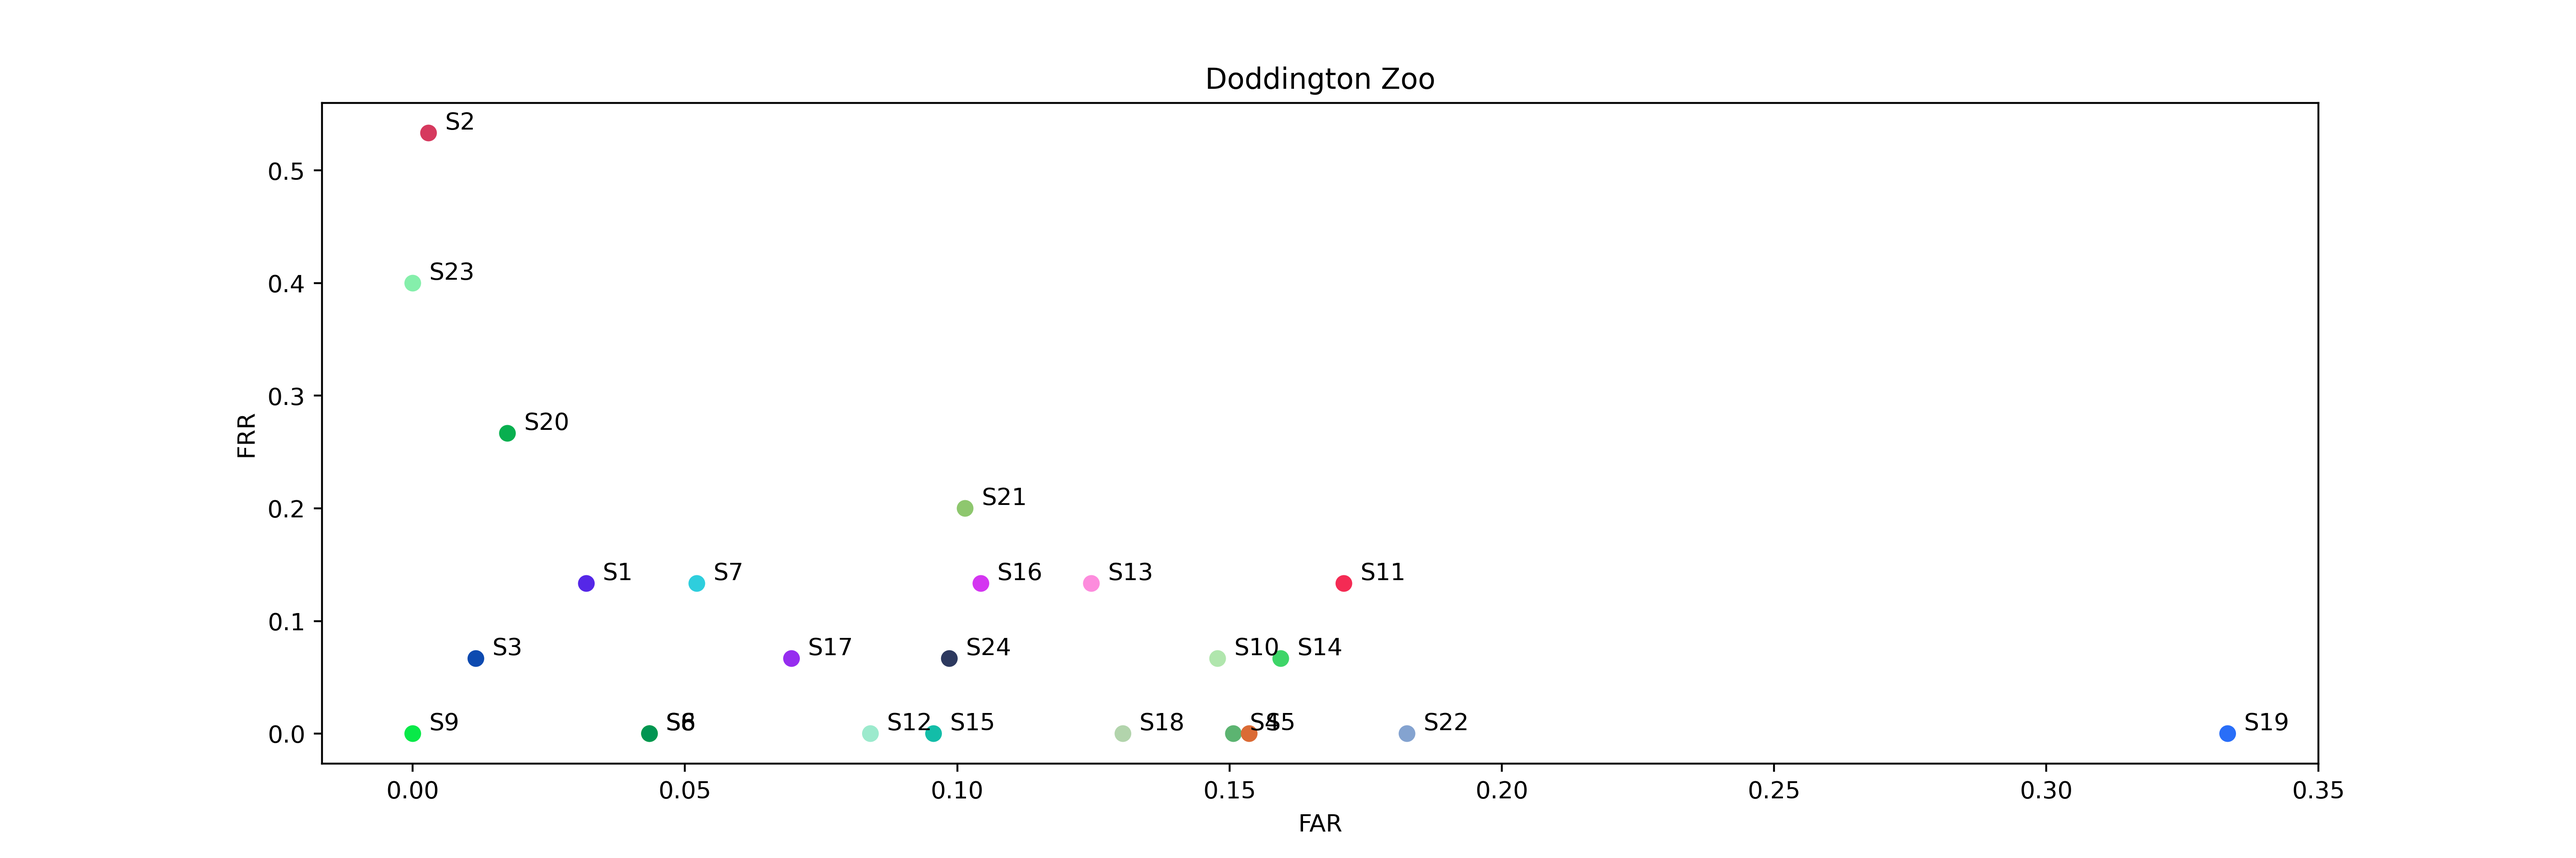
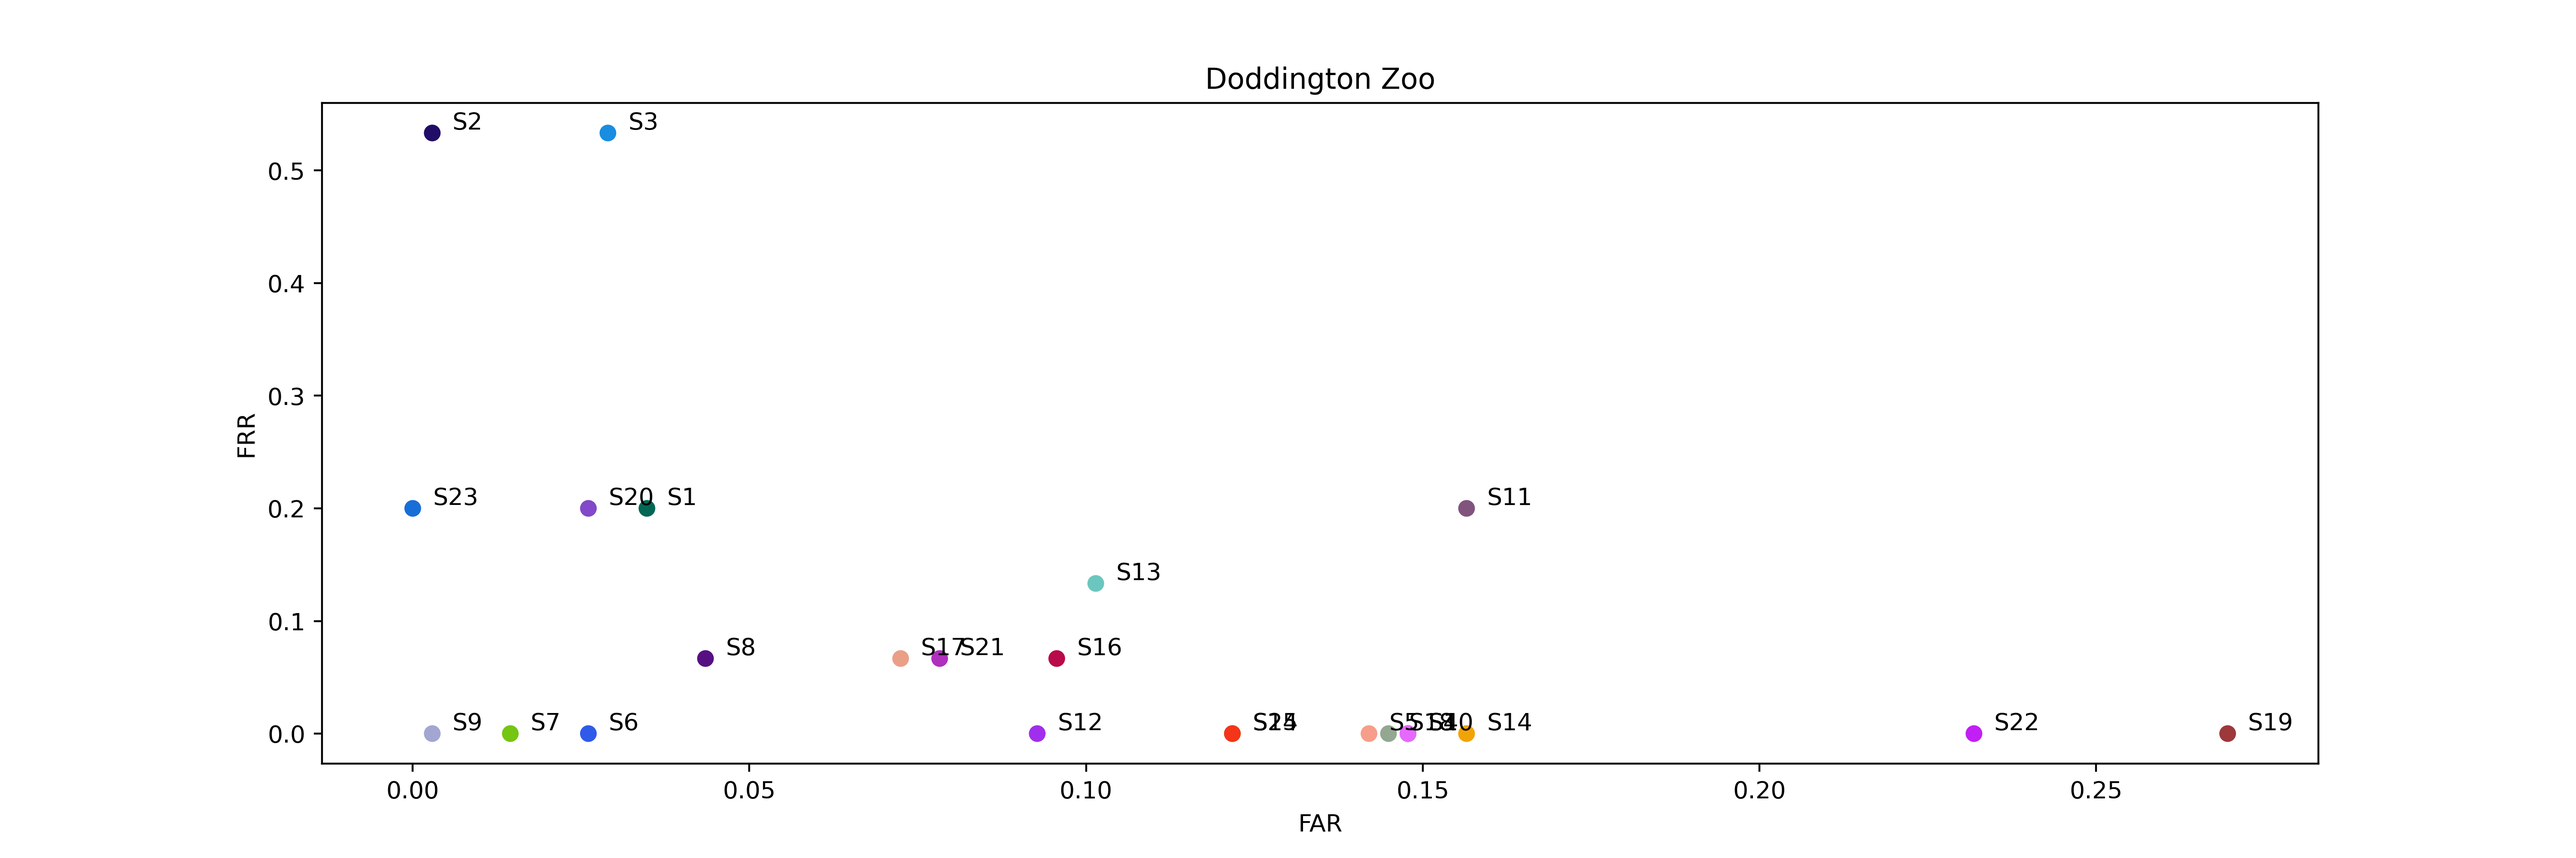
Modiche doddington e feature ridotte a 200

diff --git a/src/recogniser/doddington_zoo.py b/src/recogniser/doddington_zoo.py
@@ -37,11 +37,10 @@ class Doddigton:
             
 
         # dictionary that will contain all the results
-        results = {user: dict({'fa': 0, 'fr': 0, 'ga': 0, 'gr': 0, 'ctr': 0}) for user in set(self.y_label)}
+        results = {user: dict({'fa': 0, 'fr': 0, 'ga': 0, 'gr': 0, 'ctr': 0, 'ctrImpostor': 0}) for user in set(self.y_label)}
         rows, cols = distance_matrix.shape
 
-        #t = 4.66
-        t = 0.94
+        t = 1.6
 
         for y in range(rows):
             row_label = self.y_label[y]
@@ -74,6 +73,7 @@ class Doddigton:
                     else:
                         results[row_label]['gr'] += 1 
 
+            results[row_label]['ctrImpostor'] = len(grouped_results)-1
             results[row_label]['ctr'] += 1 
                 
 
@@ -89,10 +89,10 @@ class Doddigton:
         far = []
 
         for t in results:
-            grr += [results[t]['gr']/(results[t]['ctr']*23)]
+            grr += [results[t]['gr']/(results[t]['ctr']*results[t]['ctrImpostor'])]
             frr += [results[t]['fr']/results[t]['ctr']]
             gar += [results[t]['ga']/results[t]['ctr']]
-            far += [results[t]['fa']/(results[t]['ctr']*23)]
+            far += [results[t]['fa']/(results[t]['ctr']*results[t]['ctrImpostor'])]
 
         
         axDDGT.scatter(far, frr, c=np.random.rand(len(frr),3))

diff --git a/src/recogniser/wbb_recogniser.py b/src/recogniser/wbb_recogniser.py
@@ -244,11 +244,11 @@ class WBBRecogniser:
         relevance_table = relevance_table[relevance_table.relevant]
         relevance_table.sort_values("p_value", inplace=True)
 
-        rel_features = df[relevance_table["feature"][:100]].to_numpy()
+        rel_features = df[relevance_table["feature"][:200]].to_numpy()
 
         print("Feature selection completed!")
 
-        return rel_features, y_label, relevance_table["feature"][:100]
+        return rel_features, y_label, relevance_table["feature"][:200]
 
     def perform_evaluation(self):
 
